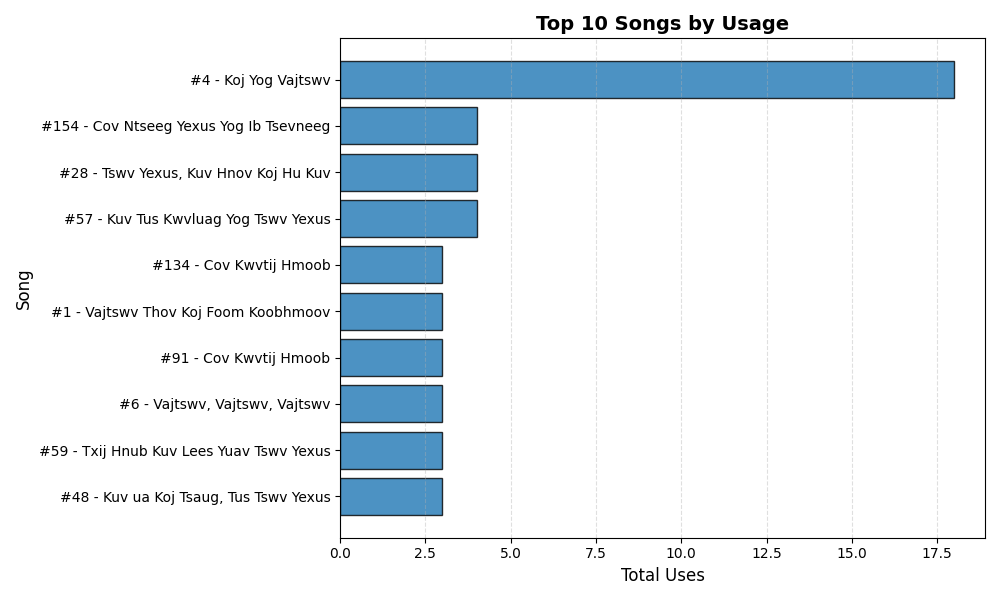
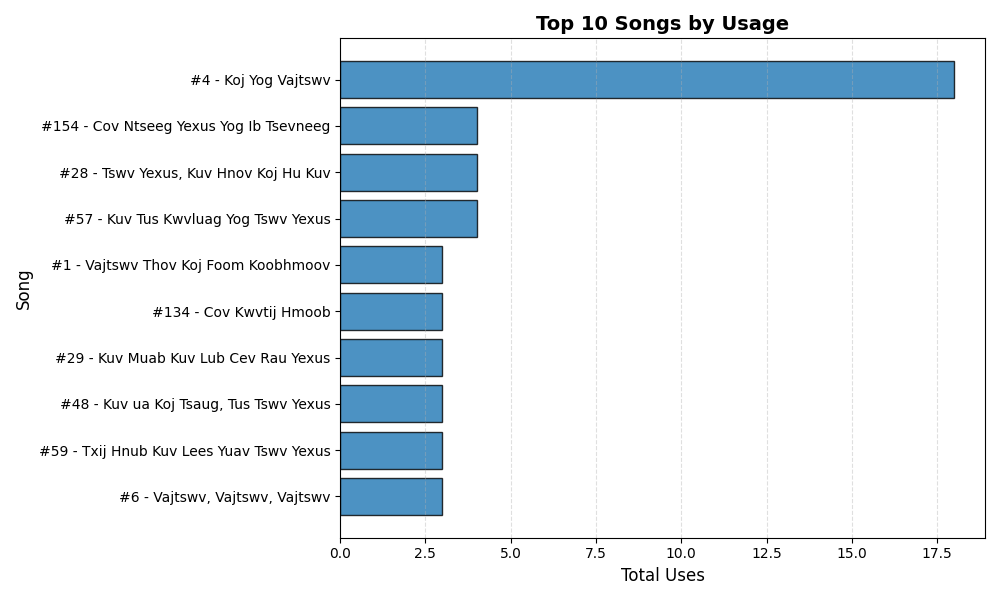
Fix reproducibility and validation for Data Analyst portfolio

diff --git a/notebooks/song_usage_kpi_report.py b/notebooks/song_usage_kpi_report.py
@@ -1,12 +1,18 @@
 import pandas as pd
 import matplotlib.pyplot as plt
 from pathlib import Path
+import argparse
+from quality_checks import merge_song_metadata, report_date
+
+parser=argparse.ArgumentParser(description="Song usage snapshot; default date is the last source date.")
+parser.add_argument("--as-of", help="Reporting date YYYY-MM-DD, on or after the last source date")
+args=parser.parse_args()
 
 # ---------- Paths ----------
 ROOT = Path(__file__).resolve().parents[1]
 output_dir = ROOT / "outputs"
 fig_dir = output_dir / "figures"
-fig_dir.mkdir(exist_ok=True)
+fig_dir.mkdir(parents=True, exist_ok=True)
 
 # ---------- Load prepared data ----------
 fact = pd.read_csv(output_dir / "fact_song_usage.csv", parse_dates=["Date"])
@@ -14,7 +20,7 @@ dim_song = pd.read_csv(output_dir / "dim_song.csv")
 dim_date = pd.read_csv(output_dir / "dim_date.csv", parse_dates=["Date"])
 
 # Merge song metadata onto fact for easier reporting
-df = fact.merge(dim_song, left_on="Song", right_on="SongName", how="left")
+df = merge_song_metadata(fact, dim_song)
 
 # ---------- Song-level KPIs ----------
 song_stats = (
@@ -28,7 +34,8 @@ song_stats = (
 )
 
 # Days since last used
-today = pd.Timestamp.today().normalize()
+today = report_date(fact, args.as_of)
+print(f"Reporting as of: {today.date()}")
 song_stats["days_since_last_used"] = (today - song_stats["last_use"]).dt.days
 
 # Classification flags
@@ -48,7 +55,7 @@ print()
 
 # ---------- Top 10 songs by usage ----------
 top10 = (
-    song_stats.sort_values("total_uses", ascending=False)
+    song_stats.sort_values(["total_uses", "SongName"], ascending=[False, True])
               .head(10)
 )
 
@@ -78,6 +85,7 @@ print()
 
 # ---------- Save detailed KPI table ----------
 kpi_path = output_dir / "song_usage_kpis.csv"
+song_stats["report_as_of"] = today.date().isoformat()
 song_stats.to_csv(kpi_path, index=False)
 print(f"Saved song-level KPIs to: {kpi_path}")
 
@@ -130,3 +138,4 @@ plt.savefig(rotation_path)
 plt.close()
 
 print(f"Saved chart: {rotation_path}")
+

diff --git a/notebooks/quality_checks.py b/notebooks/quality_checks.py
@@ -1,0 +1,17 @@
+import pandas as pd
+
+def merge_song_metadata(fact, dimension):
+    if dimension['SongName'].isna().any() or dimension['SongName'].duplicated().any():
+        raise ValueError('Song dimension requires unique non-null SongName values')
+    if fact['Song'].isna().any() or fact['Date'].isna().any():
+        raise ValueError('Song and Date must be populated')
+    joined=fact.merge(dimension,left_on='Song',right_on='SongName',how='left',validate='many_to_one',indicator=True)
+    if joined['_merge'].ne('both').any():
+        raise ValueError('Some fact songs have no dimension record')
+    return joined.drop(columns='_merge')
+
+def report_date(fact, as_of=None):
+    date=pd.Timestamp(as_of).normalize() if as_of else fact['Date'].max().normalize()
+    if pd.isna(date) or date < fact['Date'].max().normalize():
+        raise ValueError('Reporting date must be on or after the last source date')
+    return date

diff --git a/tests/test_quality.py b/tests/test_quality.py
@@ -1,0 +1,17 @@
+import unittest
+import pandas as pd
+from notebooks.quality_checks import merge_song_metadata, report_date
+
+class QualityTests(unittest.TestCase):
+    def setUp(self):
+        self.fact=pd.DataFrame({'Song':['A','A'],'Date':pd.to_datetime(['2025-01-01','2025-01-02'])})
+    def test_dimension_does_not_multiply_facts(self):
+        with self.assertRaises(ValueError):merge_song_metadata(self.fact,pd.DataFrame({'SongName':['A','A']}))
+    def test_unmatched_song_fails(self):
+        with self.assertRaises(ValueError):merge_song_metadata(self.fact,pd.DataFrame({'SongName':['B']}))
+    def test_default_date_is_source_date(self):
+        self.assertEqual(report_date(self.fact),pd.Timestamp('2025-01-02'))
+    def test_report_date_cannot_precede_data(self):
+        with self.assertRaises(ValueError):report_date(self.fact,'2024-01-01')
+
+if __name__=='__main__':unittest.main()

diff --git a/README.md b/README.md
@@ -19,9 +19,13 @@ Review source paths and schemas before running.
 The report counts song appearances, averages recorded DaysSinceLast values, finds last-use dates and applies configurable threshold rules. The current thresholds flag average rotation below 21 days and last use more than 90 days ago.
 
 ## Important limitations
-Recency uses the computer's current date. Saved results and README snapshots will not be reproducible across dates until an explicit reporting date is added. Validate song-name uniqueness before joining metadata, distinguish song appearances from services, and account for incomplete history and missing intervals.
+Recency defaults to the last source date, producing a stable historical snapshot. Use `python notebooks/song_usage_kpi_report.py --as-of 2026-10-23` for a later explicit reporting date. Dates before the last source date are rejected. Metadata joins require unique, populated song names and full fact coverage; a duplicate dimension cannot silently multiply appearances. Distinguish song appearances from services and account for incomplete history and missing intervals.
 
 Usage frequency alone does not demonstrate congregation fatigue, worship quality or the reason a song was selected. Threshold flags are planning prompts, not conclusions about people or ministry performance.
 
 ![Top songs](outputs/figures/top10_songs.png)
 ![Rotation distribution](outputs/figures/rotation_distribution.png)
+
+
+## Validation and saved outputs
+Run `python -m unittest discover -s tests -v` for four date/join checks. The included workbook rebuilds 172 song appearances across 118 songs; the last source date is February 15, 2026. The KPI export records `report_as_of`. The saved CSVs and charts have been regenerated for that historical date; they are not a current service schedule. Date/join improvements were developed with AI assistance. This is a supporting operations-reporting project, not one of the two resume projects.
